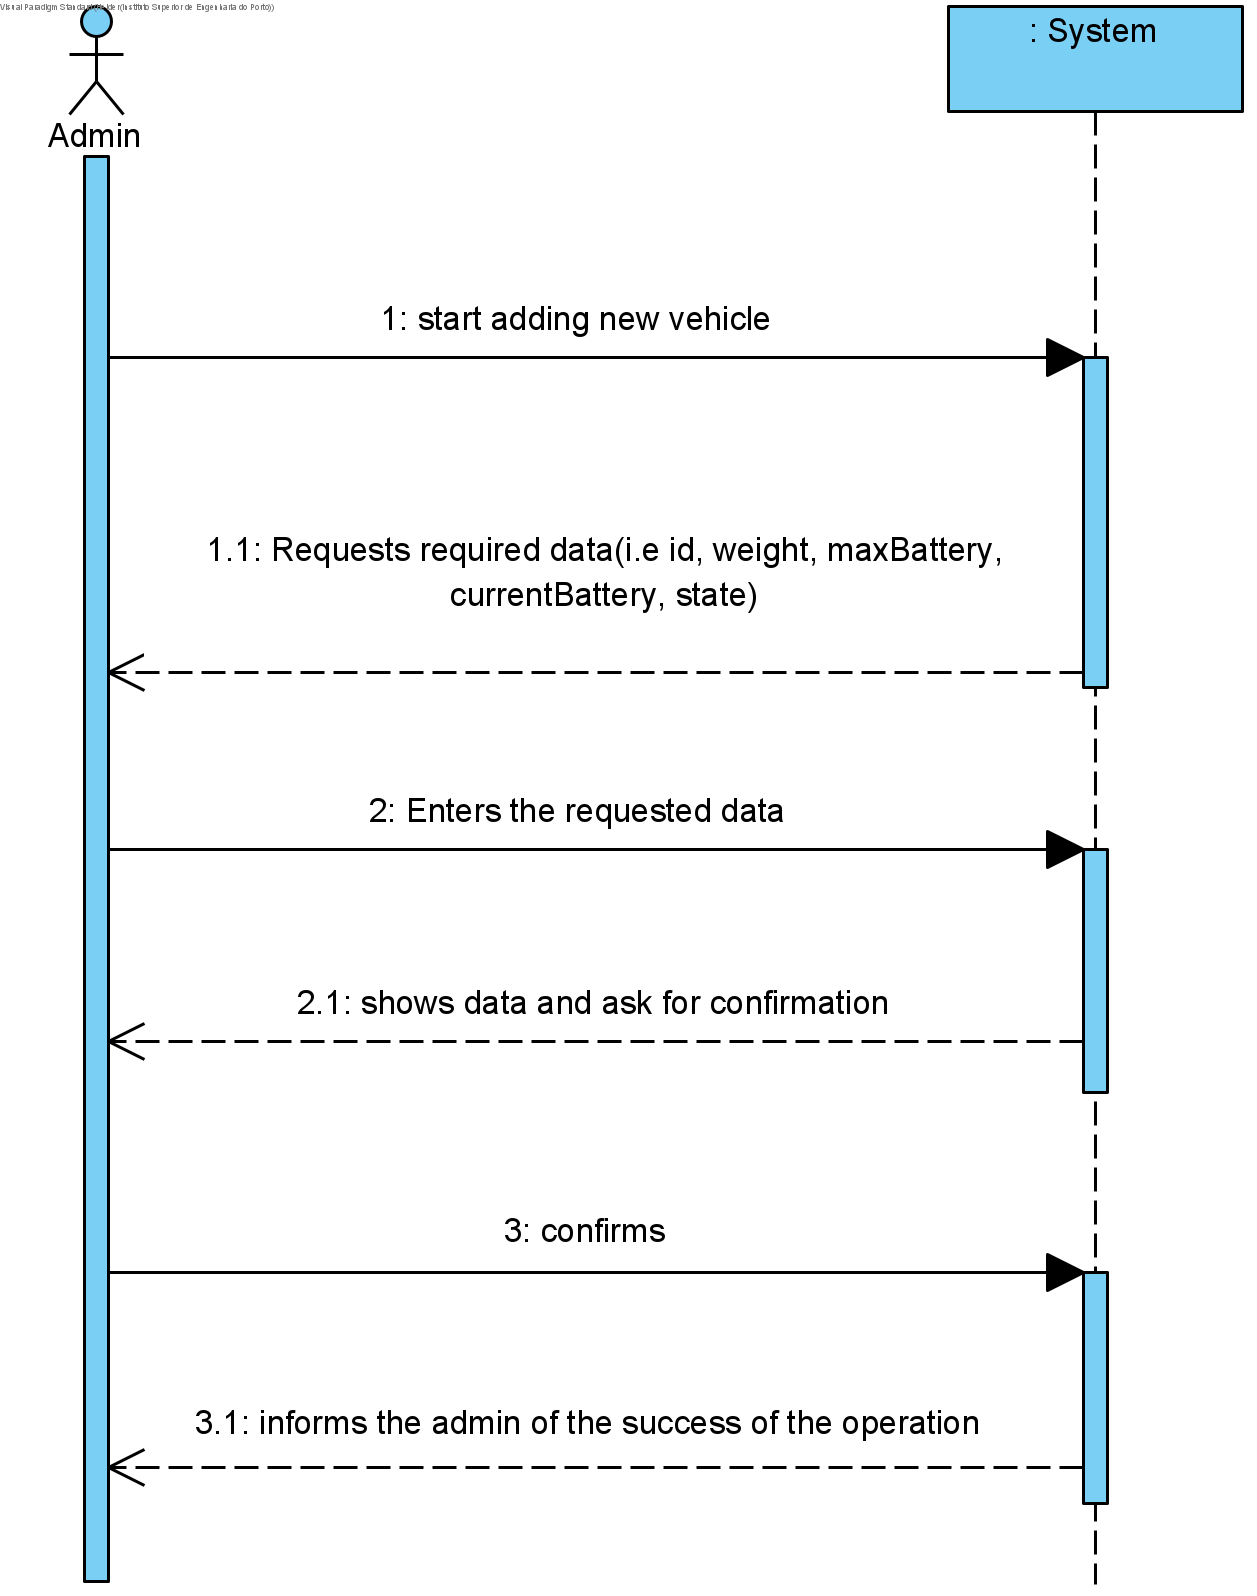
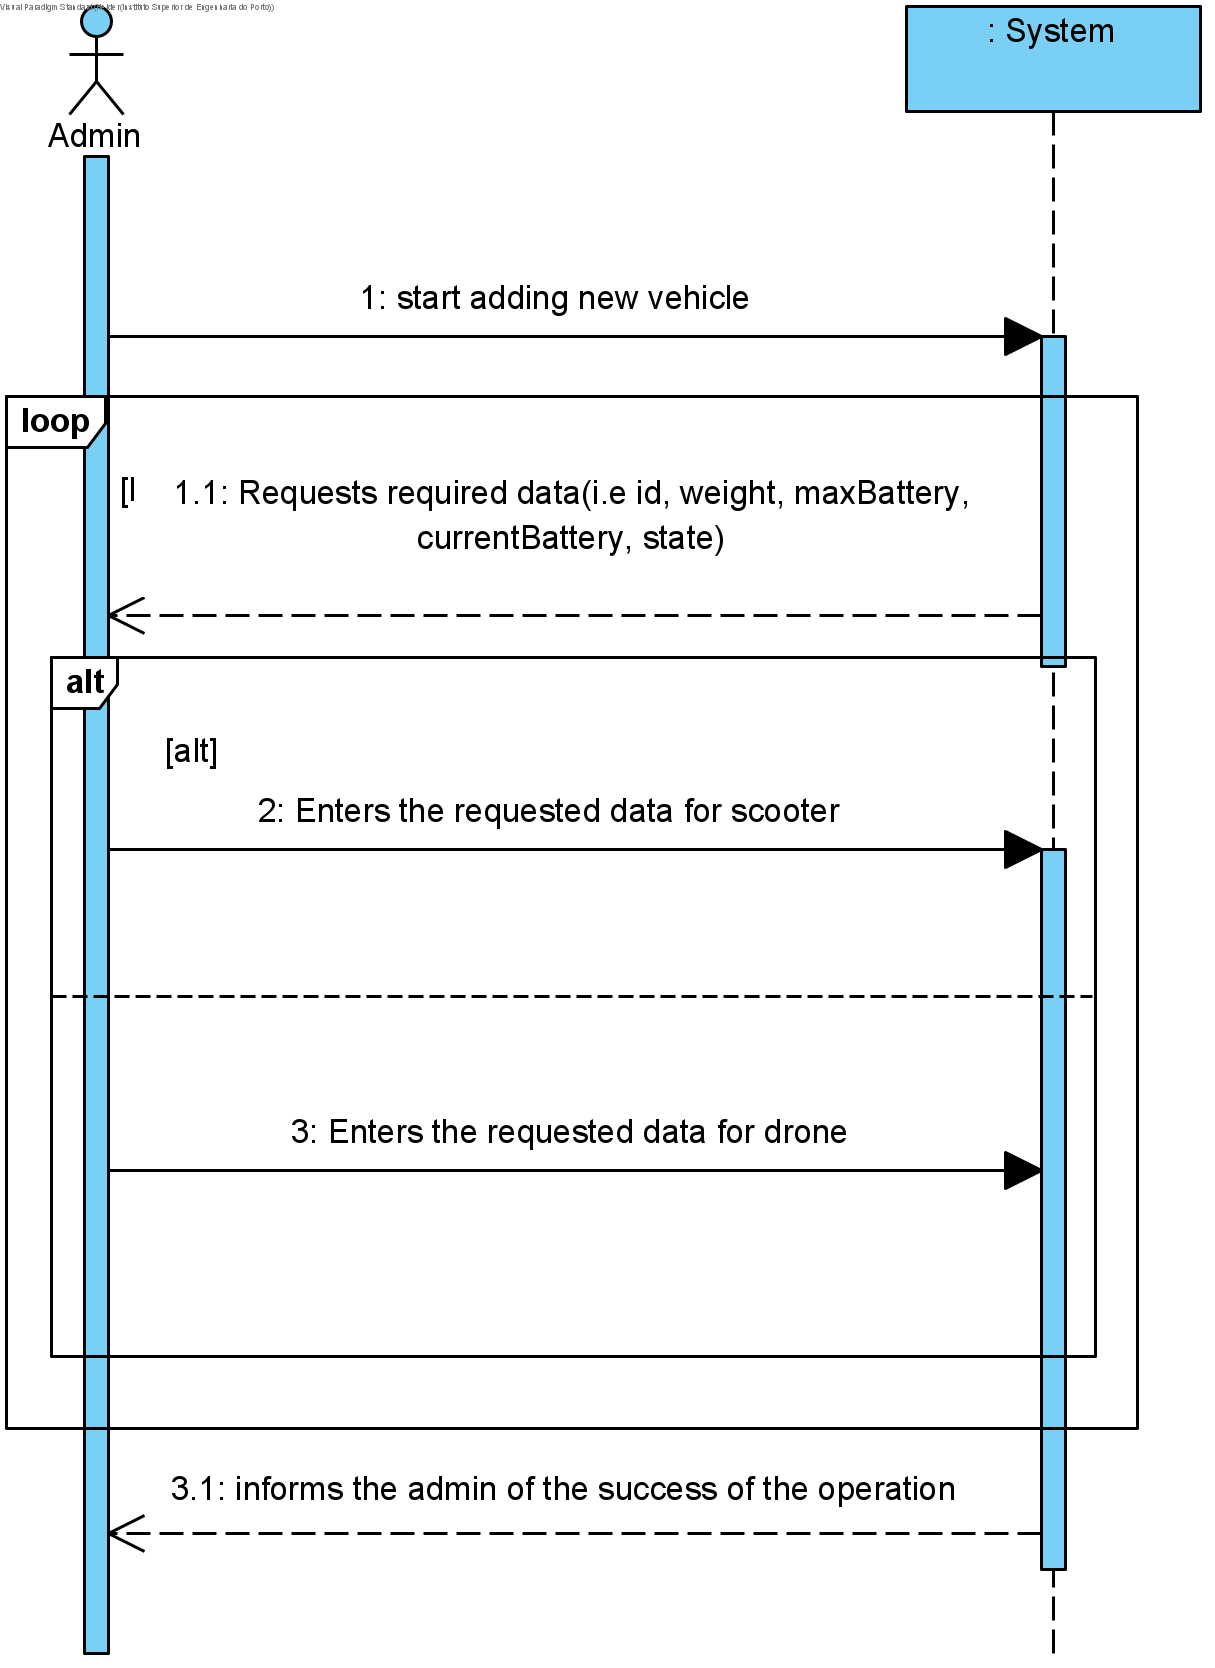
MEN09-238 # close New Vehicle - Refinement [Analysis]

diff --git a/documentation/use_cases/UC02/UC2_NewVehicle.md b/documentation/use_cases/UC02/UC2_NewVehicle.md
@@ -2,7 +2,7 @@
 
 ## 1. Requirements Engineering
 
-The admin start adding a vehicle. The system requests required data. The admin enters the requested data. The system shows data and ask for confirmation. The admin confirms. The system informs the admin of the succes of the operation.
+The admin start adding a vehicle. The system requests required data. The admin enters the requested data for scooter/drone. The system informs the admin of the succes of the operation.
 
 ### SSD
 ![UC2_SSD.png](UC2_SSD.png)
